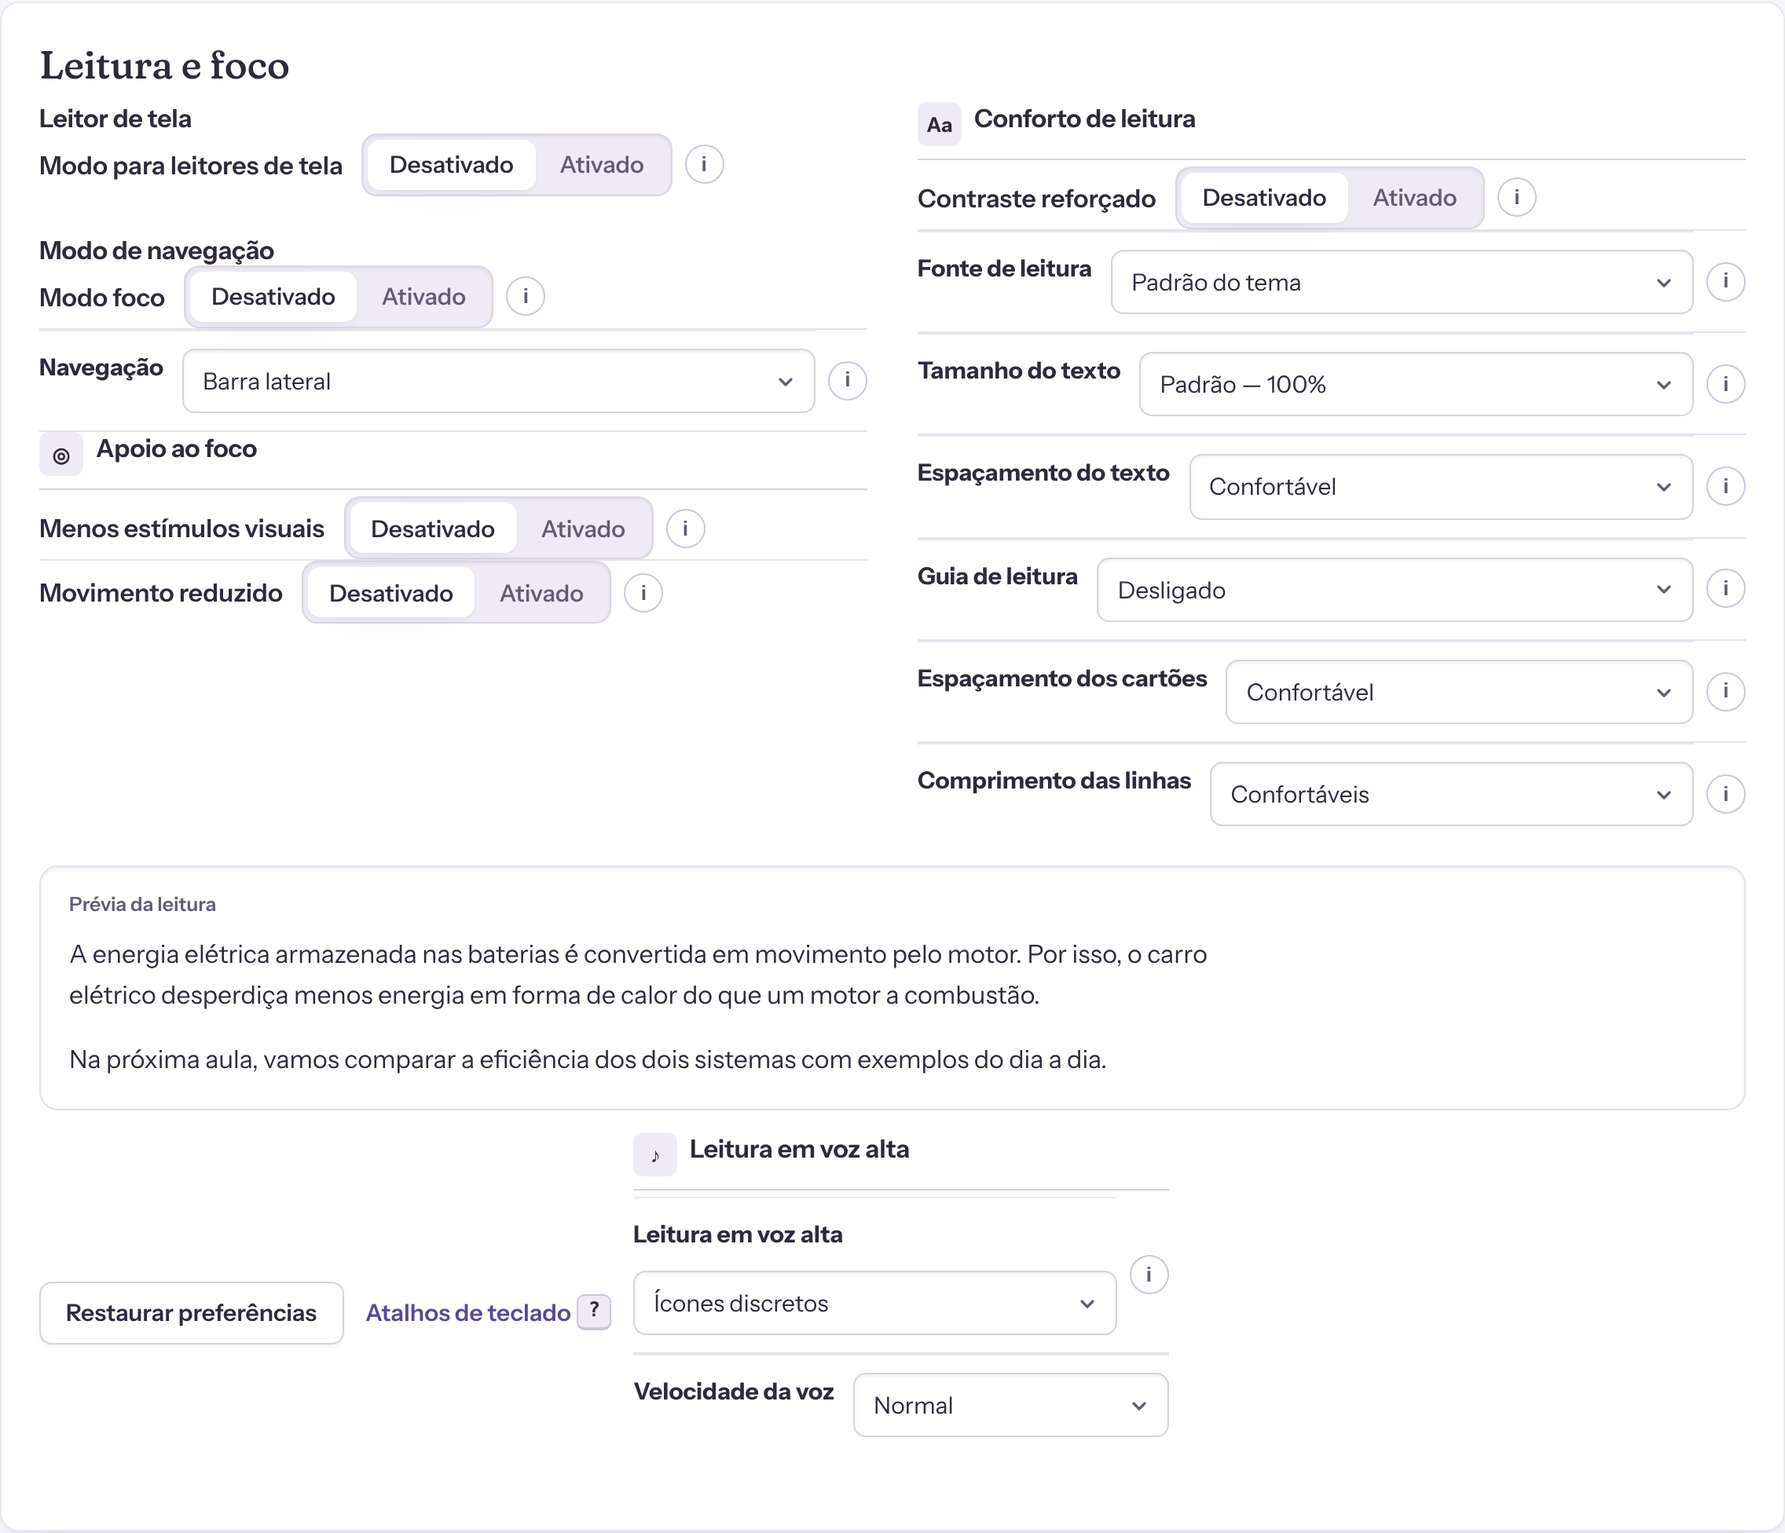
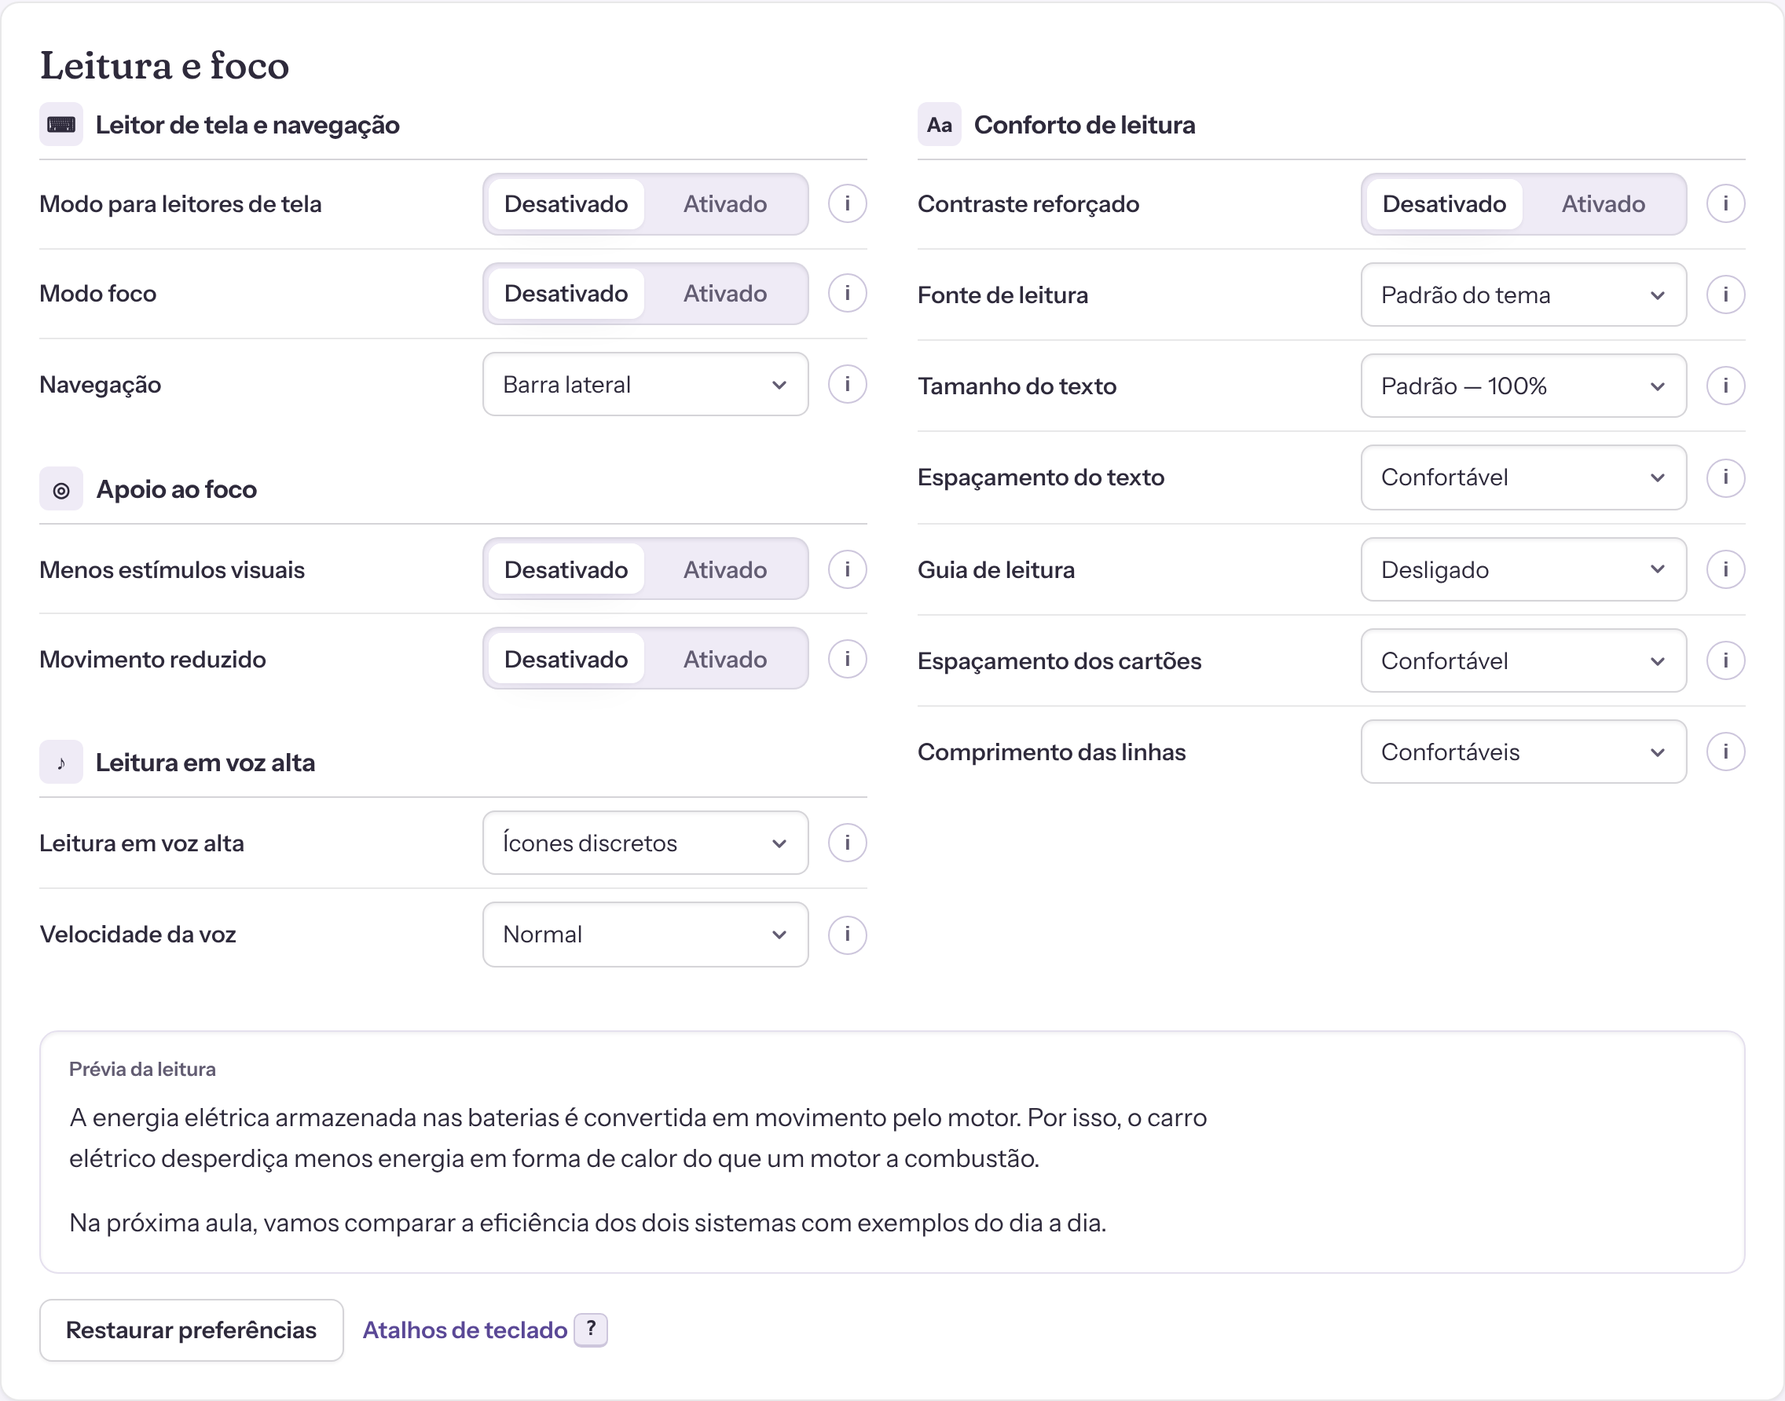
Leitura e foco: four titled groups in two balanced columns, aligned rows; fix unclosed actions row
The read-aloud group sat inside the unclosed actions container, so it floated mid-section with the
buttons beneath it. Rows are now label · fixed-width control · help; segmented halves stack only
when large text leaves no room (320 px at 200% passes). Recaptured TCC figure C09.

Claude-Session: https://claude.ai/code/session_01DUms4gkCS1xwtPzAJMvxhQ

diff --git a/frontend/pages/aparencia.html b/frontend/pages/aparencia.html
@@ -121,16 +121,22 @@
 </section><section class="article-section focus-settings-section settings-section" id="reading-settings" aria-labelledby="reading-settings-title">
 <h2 id="reading-settings-title">Leitura e foco</h2>
 <div class="personalization-settings">
-<div class="personalization-group" id="screen-reader-settings"><h3>Leitor de tela</h3>
+<div class="personalization-column">
+<div class="personalization-group" id="screen-reader-settings"><div class="personalization-heading"><span aria-hidden="true" class="setting-icon">&#9000;</span><div><h3>Leitor de tela e navega&#231;&#227;o</h3></div></div>
 <div class="setting-item"><fieldset class="segmented-setting"><legend>Modo para leitores de tela</legend><div class="segmented-control"><label><input class="segment-input" type="radio" name="setting-screen-reader" value="false" data-ui-setting="screenReaderMode" id="setting-screen-reader-off"><span>Desativado</span></label><label><input class="segment-input" type="radio" name="setting-screen-reader" value="true" data-ui-setting="screenReaderMode" id="setting-screen-reader"><span>Ativado</span></label></div></fieldset><details class="setting-help"><summary aria-label="Sobre o modo para leitores de tela">i</summary><div class="setting-help-popup">Apresenta&#231;&#227;o m&#237;nima: sem anima&#231;&#245;es, sombras, imagens decorativas e bot&#245;es de leitura do pr&#243;prio site (use o seu leitor de tela). Uma coluna, foco bem vis&#237;vel e links sublinhados. Tamb&#233;m pode ser ligado pelo primeiro Tab de qualquer p&#225;gina.</div></details></div>
-</div>
-<div class="personalization-group"><h3>Modo de navega&#231;&#227;o</h3>
 <div class="setting-item"><fieldset class="segmented-setting"><legend>Modo foco</legend><div class="segmented-control"><label><input class="segment-input" type="radio" name="setting-focus-mode" value="false" data-ui-setting="focusMode" id="setting-focus-mode-off"><span>Desativado</span></label><label><input class="segment-input" type="radio" name="setting-focus-mode" value="true" data-ui-setting="focusMode" id="setting-focus-mode"><span>Ativado</span></label></div></fieldset><details class="setting-help"><summary aria-label="Sobre o modo foco">i</summary><div class="setting-help-popup">Oculta o menu lateral e o rodap&#233;; a navega&#231;&#227;o fica na barra inferior, que aparece pela al&#231;a na base da tela. Alt+F liga e desliga.</div></details></div>
 <div class="setting-item"><label class="setting-select-row" for="setting-navigation"><span><strong>Navega&#231;&#227;o</strong></span><select data-ui-setting="navigation" id="setting-navigation"><option value="sidebar">Barra lateral</option><option value="dock">Barra inferior</option></select></label><details class="setting-help"><summary aria-label="Sobre a navega&#231;&#227;o">i</summary><div class="setting-help-popup">Barra inferior: os atalhos ficam fixos na parte de baixo e a barra lateral some. No modo foco, a barra inferior &#233; sempre usada e aparece ao levar o cursor (ou o Tab) at&#233; a al&#231;a na base da tela.</div></details></div>
-<div class="personalization-heading"><span aria-hidden="true" class="setting-icon">&#9678;</span><div><h3>Apoio ao foco</h3></div></div>
+</div>
+<div class="personalization-group" id="focus-support-settings"><div class="personalization-heading"><span aria-hidden="true" class="setting-icon">&#9678;</span><div><h3>Apoio ao foco</h3></div></div>
 <div class="setting-item"><fieldset class="segmented-setting"><legend>Menos est&#237;mulos visuais</legend><div class="segmented-control"><label><input class="segment-input" type="radio" name="setting-low-stimulation" value="false" data-ui-setting="lowStimulation" id="setting-low-stimulation-off"><span>Desativado</span></label><label><input class="segment-input" type="radio" name="setting-low-stimulation" value="true" data-ui-setting="lowStimulation" id="setting-low-stimulation"><span>Ativado</span></label></div></fieldset><details class="setting-help"><summary aria-label="Sobre menos est&#237;mulos visuais">i</summary><div class="setting-help-popup">Reduz efeitos e elementos visuais secund&#225;rios.</div></details></div>
 <div class="setting-item"><fieldset class="segmented-setting"><legend>Movimento reduzido</legend><div class="segmented-control"><label><input class="segment-input" type="radio" name="setting-reduced-motion" value="false" data-ui-setting="reducedMotion" id="setting-reduced-motion-off"><span>Desativado</span></label><label><input class="segment-input" type="radio" name="setting-reduced-motion" value="true" data-ui-setting="reducedMotion" id="setting-reduced-motion"><span>Ativado</span></label></div></fieldset><details class="setting-help"><summary aria-label="Sobre movimento reduzido">i</summary><div class="setting-help-popup">Desativa anima&#231;&#245;es e transi&#231;&#245;es da interface.</div></details></div>
 </div>
+<div class="personalization-group" id="read-aloud-settings"><div class="personalization-heading"><span aria-hidden="true" class="setting-icon">&#9834;</span><div><h3>Leitura em voz alta</h3></div></div>
+<div class="setting-item"><label class="setting-select-row" for="setting-read-aloud"><span><strong>Leitura em voz alta</strong></span><select data-ui-setting="readAloud" id="setting-read-aloud"><option value="icons">&#205;cones discretos</option><option value="everywhere">Em todo o site</option><option value="off">Desligada</option></select></label><details class="setting-help"><summary aria-label="Sobre a leitura em voz alta">i</summary><div class="setting-help-popup">&#205;cones discretos: alto-falante no resumo, nas listas e nas quest&#245;es. Em todo o site: tamb&#233;m um alto-falante no topo de cada p&#225;gina, que l&#234; o texto selecionado ou a p&#225;gina inteira (Alt+L). Desligada: sem bot&#245;es. A leitura usa as vozes do pr&#243;prio navegador ou do sistema; nenhum texto &#233; enviado a um servi&#231;o de IA.</div></details></div>
+<div class="setting-item"><label class="setting-select-row" for="setting-speech-rate"><span><strong>Velocidade da voz</strong></span><select data-ui-setting="speechRate" id="setting-speech-rate"><option value="slow">Mais lenta</option><option value="normal">Normal</option><option value="fast">Mais r&#225;pida</option><option value="faster">R&#225;pida</option></select></label><details class="setting-help"><summary aria-label="Sobre a velocidade da voz">i</summary><div class="setting-help-popup">Vale para todas as leituras em voz alta do site. A voz vem do pr&#243;prio navegador ou do sistema.</div></details></div>
+</div>
+</div>
+<div class="personalization-column">
 <div class="personalization-group"><div class="personalization-heading"><span aria-hidden="true" class="setting-icon">Aa</span><div><h3>Conforto de leitura</h3></div></div>
 <div class="setting-item"><fieldset class="segmented-setting"><legend>Contraste refor&#231;ado</legend><div class="segmented-control"><label><input class="segment-input" type="radio" name="setting-high-contrast" value="false" data-ui-setting="highContrast" id="setting-high-contrast-off"><span>Desativado</span></label><label><input class="segment-input" type="radio" name="setting-high-contrast" value="true" data-ui-setting="highContrast" id="setting-high-contrast"><span>Ativado</span></label></div></fieldset><details class="setting-help"><summary aria-label="Sobre contraste refor&#231;ado">i</summary><div class="setting-help-popup">Real&#231;a bordas, campos e links para facilitar a identifica&#231;&#227;o.</div></details></div>
 <div class="setting-item"><label class="setting-select-row" for="setting-reading-font"><span><strong>Fonte de leitura</strong></span><select data-ui-setting="readingFont" id="setting-reading-font"><option value="default">Padr&#227;o do tema</option><option value="readable" style="font-family:Verdana,Arial,sans-serif">Simples (Verdana)</option><option value="atkinson" style="font-family:'Atkinson Hyperlegible'">Atkinson Hyperlegible</option><option value="lexend" style="font-family:Lexend">Lexend</option><option value="opendyslexic" style="font-family:OpenDyslexic">OpenDyslexic</option></select></label><details class="setting-help"><summary aria-label="Sobre tipografia de leitura">i</summary><div class="setting-help-popup">Atkinson Hyperlegible diferencia letras parecidas (I, l, 1); Lexend tem espa&#231;amento mais aberto; OpenDyslexic tem base mais pesada, pensada para dislexia. Vale testar na pr&#233;via.</div></details></div>
@@ -140,15 +146,11 @@
 <div class="setting-item"><label class="setting-select-row" for="setting-density"><span><strong>Espaçamento dos cartões</strong></span><select data-ui-setting="density" id="setting-density"><option value="comfortable">Confortável</option><option value="compact">Compacto</option></select></label><details class="setting-help"><summary aria-label="Sobre o espaçamento dos cartões">i</summary><div class="setting-help-popup">Compacto mostra mais conteúdo na tela no Início, em Revisar e em Planejar.</div></details></div><div class="setting-item"><label class="setting-select-row" for="setting-reading-width"><span><strong>Comprimento das linhas</strong></span><select data-ui-setting="readingWidth" id="setting-reading-width"><option value="narrow">Curtas</option><option value="comfortable">Confort&#225;veis</option><option value="wide">Longas</option></select></label><details class="setting-help"><summary aria-label="Sobre largura da leitura">i</summary><div class="setting-help-popup">Limita o comprimento das linhas de transcri&#231;&#245;es e resumos.</div></details></div>
 </div>
 </div>
+</div>
 <figure class="reading-preview" aria-labelledby="reading-preview-caption"><figcaption id="reading-preview-caption">Pr&#233;via da leitura</figcaption><div class="reading-measure reading-preview-text"><p>A energia el&#233;trica armazenada nas baterias &#233; convertida em movimento pelo motor. Por isso, o carro el&#233;trico desperdi&#231;a menos energia em forma de calor do que um motor a combust&#227;o.</p><p>Na pr&#243;xima aula, vamos comparar a efici&#234;ncia dos dois sistemas com exemplos do dia a dia.</p></div></figure>
 <div class="personalization-actions">
 <button class="secondary-action" id="reset-personalization" type="button">Restaurar preferências</button>
 <button class="text-action" type="button" data-open-shortcuts>Atalhos de teclado <kbd>?</kbd></button>
-
-<div class="personalization-group" id="read-aloud-settings"><div class="personalization-heading"><span aria-hidden="true" class="setting-icon">&#9834;</span><div><h3>Leitura em voz alta</h3></div></div>
-<div class="setting-item"><label class="setting-select-row" for="setting-read-aloud"><span><strong>Leitura em voz alta</strong></span><select data-ui-setting="readAloud" id="setting-read-aloud"><option value="icons">&#205;cones discretos</option><option value="everywhere">Em todo o site</option><option value="off">Desligada</option></select></label><details class="setting-help"><summary aria-label="Sobre a leitura em voz alta">i</summary><div class="setting-help-popup">&#205;cones discretos: alto-falante no resumo, nas listas e nas quest&#245;es. Em todo o site: tamb&#233;m um alto-falante no topo de cada p&#225;gina, que l&#234; o texto selecionado ou a p&#225;gina inteira (Alt+L). Desligada: sem bot&#245;es. A leitura usa as vozes do pr&#243;prio navegador ou do sistema; nenhum texto &#233; enviado a um servi&#231;o de IA.</div></details></div>
-<div class="setting-item"><label class="setting-select-row" for="setting-speech-rate"><span><strong>Velocidade da voz</strong></span><select data-ui-setting="speechRate" id="setting-speech-rate"><option value="slow">Mais lenta</option><option value="normal">Normal</option><option value="fast">Mais r&#225;pida</option><option value="faster">R&#225;pida</option></select></label></div>
-</div>
 </div>
 </section><section class="study-section saved-themes settings-section" aria-labelledby="saved-themes-heading"><h2 id="saved-themes-heading">Meus temas</h2><button class="secondary-action saved-themes-trigger" type="button" data-open-dialog="saved-themes-dialog" aria-haspopup="dialog">Temas salvos</button><dialog class="settings-dialog saved-themes-dialog" id="saved-themes-dialog" aria-labelledby="saved-dialog-title"><div class="settings-dialog-heading"><h2 id="saved-dialog-title">Meus temas</h2><button class="dialog-close" type="button" data-close-dialog aria-label="Fechar">&#215;</button></div><div class="theme-template-actions" role="group" aria-label="Criar a partir de um modo"><span>Usar como base:</span><button type="button" class="secondary-action" data-profile-template="light">Claro</button><button type="button" class="secondary-action" data-profile-template="dark">Escuro</button></div><form data-save-theme-form class="save-theme-form"><label for="theme-profile-name">Nome do tema<input id="theme-profile-name" maxlength="40" required placeholder="Nome do tema"></label><label for="theme-profile-kind">Modo<select id="theme-profile-kind"><option value="light">Claro</option><option value="dark">Escuro</option></select></label><button class="primary-action" type="submit">Salvar tema</button></form><p data-saved-theme-message role="status" aria-live="polite"></p><div data-saved-theme-list></div></dialog></section></main>
 <footer class="site-footer"><span>Voz em Estudo</span><a href="./ajuda.html#seus-dados">Ajuda e dados</a></footer></body></html>

diff --git a/frontend/css/studio.css b/frontend/css/studio.css
@@ -562,3 +562,124 @@
     }
   }
 }
+
+/* ---- Leitura e foco: two balanced columns of titled groups; every row is label · control · help,
+   with controls of one width so the right edges line up. Preview and actions span the section. ---- */
+@layer pages {
+  body.app-page #reading-settings .personalization-settings {
+    display: grid;
+    grid-template-columns: repeat(2, minmax(0, 1fr));
+    align-items: start;
+    gap: var(--space-6);
+    columns: auto;
+  }
+  body.app-page #reading-settings .personalization-column {
+    display: grid;
+    gap: var(--space-5);
+    min-width: 0;
+  }
+  body.app-page #reading-settings .personalization-group {
+    margin: 0;
+  }
+  body.app-page #reading-settings .personalization-heading {
+    display: flex;
+    align-items: center;
+    gap: var(--space-2);
+    margin: 0;
+    padding-bottom: var(--space-2);
+    border-bottom: 1px solid var(--line-strong);
+  }
+  body.app-page #reading-settings .setting-icon {
+    display: inline-grid;
+    place-items: center;
+    flex: 0 0 auto;
+  }
+  body.app-page #reading-settings .setting-item {
+    display: grid;
+    grid-template-columns: minmax(0, 1fr) auto;
+    align-items: center;
+    gap: var(--space-3);
+    min-height: 3.5rem;
+    padding-block: var(--space-2);
+    border-bottom: 1px solid var(--line);
+  }
+  body.app-page #reading-settings .setting-item:last-child {
+    border-bottom: 0;
+  }
+  body.app-page #reading-settings :is(.segmented-setting, .setting-select-row) {
+    display: grid;
+    grid-template-columns: minmax(0, 1fr) var(--reading-control-width, 13rem);
+    align-items: center;
+    gap: var(--space-3);
+    margin: 0;
+    padding: 0;
+    border: 0;
+  }
+  body.app-page #reading-settings .segmented-setting > legend {
+    float: left;
+    padding: 0;
+    font-weight: 550;
+    font-size: var(--step-ui);
+  }
+  body.app-page #reading-settings .setting-select-row > span {
+    font-size: var(--step-ui);
+    font-weight: 550;
+  }
+  body.app-page #reading-settings .setting-select-row strong {
+    font-weight: inherit;
+  }
+  body.app-page #reading-settings .segmented-setting {
+    min-width: 0;
+  }
+  body.app-page #reading-settings .segmented-setting .segmented-control {
+    display: grid;
+    /* Two equal halves; with large text on a narrow screen they stack instead of overflowing. */
+    grid-template-columns: repeat(auto-fit, minmax(min(100%, 5rem), 1fr));
+    width: 100%;
+    min-width: 0;
+    margin: 0;
+  }
+  body.app-page #reading-settings .segmented-setting .segmented-control > label {
+    display: grid;
+    min-width: 0;
+  }
+  body.app-page #reading-settings .segmented-setting .segmented-control span {
+    display: flex;
+    justify-content: center;
+    width: 100%;
+    padding-inline: var(--space-2);
+    text-align: center;
+  }
+  body.app-page #reading-settings .setting-select-row select {
+    width: 100%;
+    max-width: 100%;
+    min-width: 0;
+    margin: 0;
+  }
+  body.app-page #reading-settings .reading-preview {
+    margin-top: var(--space-6);
+  }
+  body.app-page #reading-settings .personalization-actions {
+    display: flex;
+    flex-wrap: wrap;
+    align-items: center;
+    gap: var(--space-3);
+    margin-top: var(--space-4);
+  }
+
+  @media (max-width: 1100px) {
+    body.app-page #reading-settings .personalization-settings {
+      grid-template-columns: minmax(0, 1fr);
+    }
+  }
+  @media (max-width: 520px) {
+    body.app-page #reading-settings :is(.segmented-setting, .setting-select-row) {
+      grid-template-columns: minmax(0, 1fr);
+      gap: var(--space-2);
+    }
+  }
+  [data-text-size='maximum'] body.app-page #reading-settings .personalization-settings,
+  body.app-page[data-text-size='maximum'] #reading-settings .personalization-settings {
+    grid-template-columns: minmax(0, 1fr);
+  }
+}

diff --git a/docs/tcc-apendice-c/LEGENDAS.md b/docs/tcc-apendice-c/LEGENDAS.md
@@ -136,7 +136,7 @@ com os botões de autoavaliação (De novo, Difícil, Bom, Fácil) usados na rep
   espaçada derivadas da aula. Se houver limite de figuras, basta C08b (contém frente e verso).
 
 ### C09_acessibilidade.png (recorte da seção)
-Seção “Leitura e foco” de Aparência: modo para leitores de tela, modo foco, navegação, menos
+Seção “Leitura e foco” de Aparência, em quatro grupos (Leitor de tela e navegação, Apoio ao foco, Leitura em voz alta e Conforto de leitura): modo para leitores de tela, modo foco, navegação, menos
 estímulos visuais, movimento reduzido, contraste reforçado, fonte de leitura (incl. Atkinson
 Hyperlegible, Lexend, OpenDyslexic), tamanho do texto (90% a 200%), espaçamento, guia de leitura,
 comprimento das linhas, prévia e leitura em voz alta com velocidade da voz.
